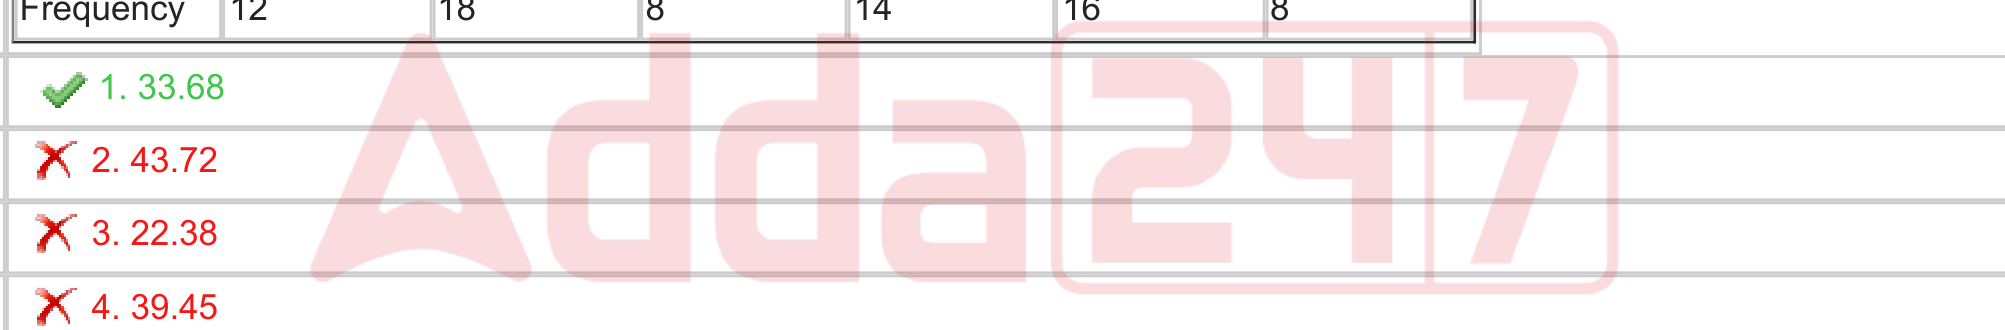
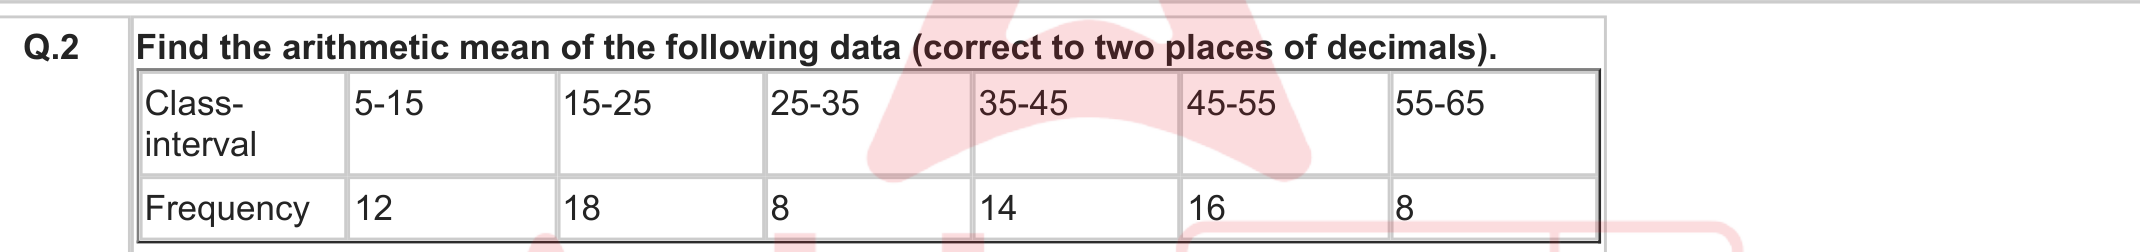
Fix Q.2 and Q.17 image crops to perfectly frame only the question and exclude options

diff --git a/create_full_length_4.py b/create_full_length_4.py
@@ -47,8 +47,8 @@ os.makedirs('uploads', exist_ok=True)
 # Extract images for Q.2 (page 1) and Q.17 (page 4) using hardcoded rects
 table_images = {}
 rects = {
-    2: (0, fitz.Rect(58.4, 497.1, 555.5, 575.3)),
-    17: (3, fitz.Rect(78.9, 638.1, 149.3, 706.8))
+    2: (0, fitz.Rect(25, 445, 560, 508)),
+    17: (3, fitz.Rect(25, 615, 450, 675))
 }
 mat = fitz.Matrix(4, 4)
 for q_num, (p_idx, rect) in rects.items():
